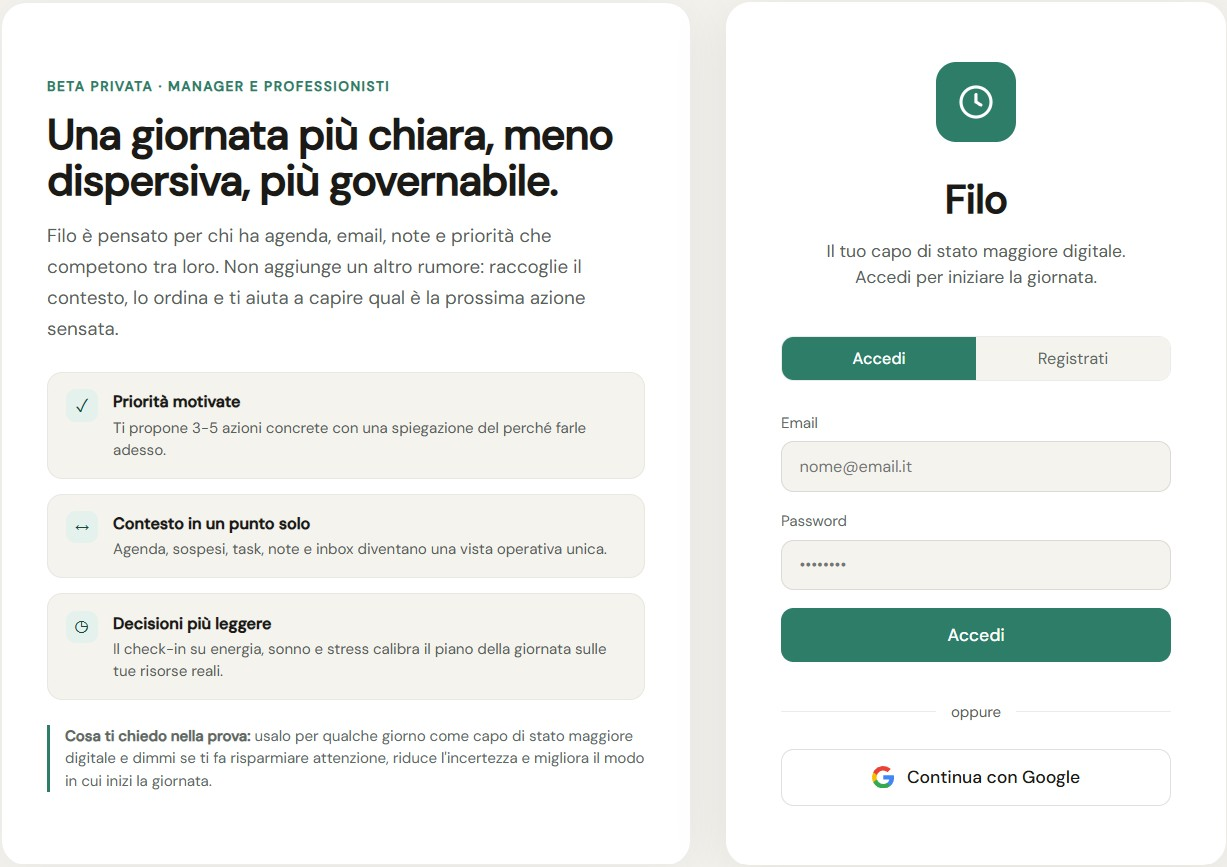
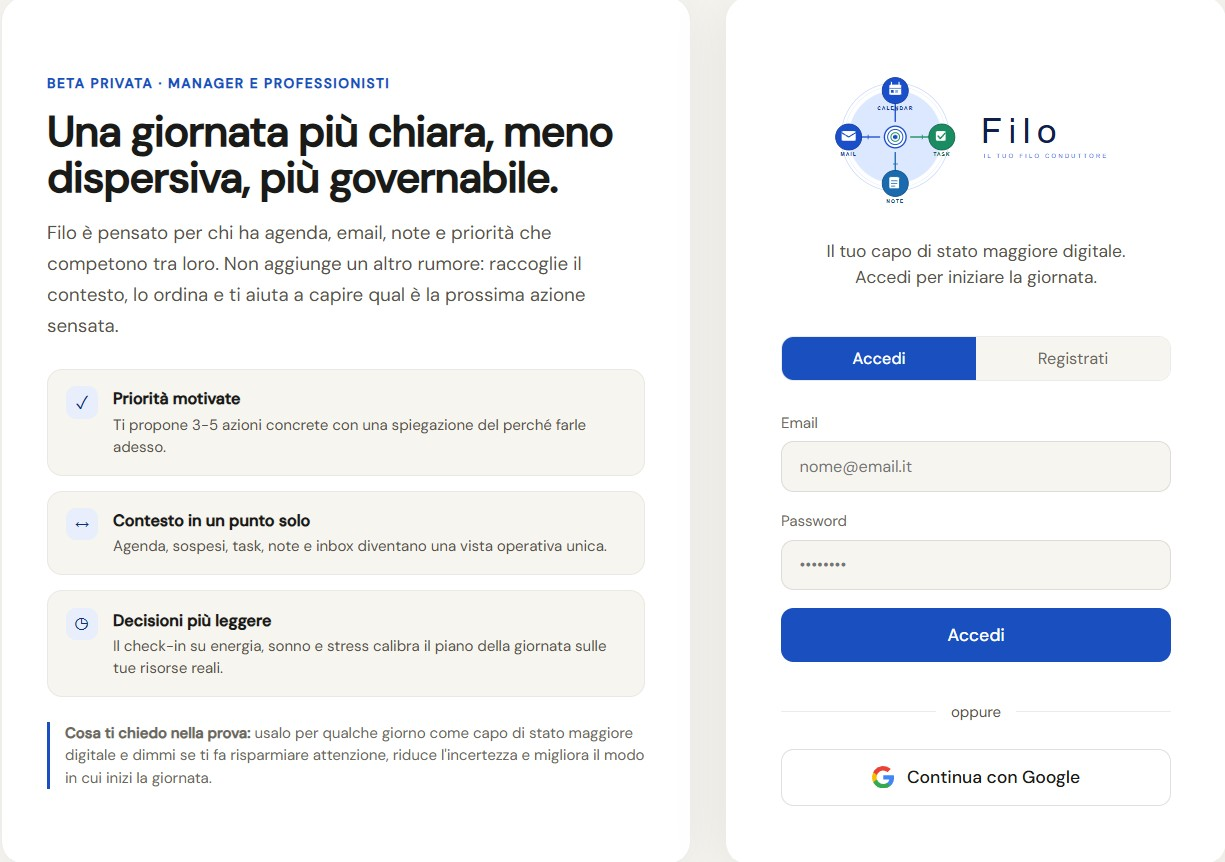
Update landing brand assets

diff --git a/index.html b/index.html
@@ -17,6 +17,7 @@
   <meta name="twitter:title" content="Filo - Contesto, priorita' e prossime azioni per professionisti">
   <meta name="twitter:description" content="Filo non e' un CRM: usa l'AI per leggere il contesto operativo e suggerire prossime azioni piu' chiare.">
   <meta name="twitter:image" content="https://filo-landing-gules.vercel.app/filo-linkedin-preview.png">
+  <link rel="icon" type="image/svg+xml" href="filo_favicon.svg">
   <script>
     window.va = window.va || function () { (window.vaq = window.vaq || []).push(arguments); };
   </script>
@@ -24,17 +25,20 @@
 
   <style>
     :root {
-      --ink: #14213d;
-      --muted: #5c667a;
-      --line: #dfe4ea;
+      --ink: #151512;
+      --brand-ink: #0f1e4a;
+      --muted: #5f5a52;
+      --line: #e5e0d8;
       --surface: #ffffff;
-      --soft: #f6f8fb;
-      --mint: #dff7ef;
-      --mint-strong: #2b9f78;
+      --paper: #f7f5f0;
+      --soft: #f4f2ec;
+      --blue-soft: #e8eefb;
+      --mint: #e4f1ec;
+      --mint-strong: #1a8c62;
       --coral: #f07167;
       --gold: #f6bd60;
-      --blue: #4f7cac;
-      --shadow: 0 22px 60px rgba(20, 33, 61, 0.14);
+      --blue: #2459c7;
+      --shadow: 0 22px 60px rgba(26, 26, 24, 0.12);
     }
 
     * {
@@ -48,7 +52,7 @@
     body {
       margin: 0;
       font-family: Inter, ui-sans-serif, system-ui, -apple-system, BlinkMacSystemFont, "Segoe UI", sans-serif;
-      background: var(--surface);
+      background: var(--paper);
       color: var(--ink);
       line-height: 1.5;
     }
@@ -74,25 +78,33 @@
       width: min(1120px, calc(100% - 40px));
       margin: 0 auto;
       padding: 18px 0;
-      background: rgba(255, 255, 255, 0.9);
+      background: rgba(247, 245, 240, 0.9);
       backdrop-filter: blur(18px);
     }
 
     .brand {
       display: inline-flex;
       align-items: center;
-      gap: 10px;
+      gap: 12px;
       font-weight: 800;
       font-size: 1.15rem;
+      color: var(--brand-ink);
     }
 
     .brand-mark {
       display: grid;
       place-items: center;
-      width: 34px;
-      height: 34px;
-      border-radius: 8px;
-      background: #2d7d68;
+      width: 38px;
+      height: 38px;
+      border-radius: 50%;
+      overflow: hidden;
+    }
+
+    .brand-mark img {
+      width: 100%;
+      height: 100%;
+      object-fit: contain;
+      display: block;
     }
 
     .nav-links {
@@ -116,9 +128,9 @@
     }
 
     .button.primary {
-      background: var(--ink);
+      background: var(--blue);
       color: #fff;
-      box-shadow: 0 12px 24px rgba(20, 33, 61, 0.18);
+      box-shadow: 0 12px 24px rgba(36, 89, 199, 0.20);
     }
 
     .button.secondary {
@@ -129,14 +141,14 @@
 
     .hero {
       padding: 62px 0 88px;
-      background: linear-gradient(180deg, #ffffff 0%, #f6fbf9 70%, #ffffff 100%);
+      background: var(--paper);
     }
 
     .hero-inner {
       display: grid;
-      grid-template-columns: 1fr;
-      align-items: start;
-      gap: 34px;
+      grid-template-columns: minmax(0, .94fr) minmax(420px, 1.06fr);
+      align-items: center;
+      gap: 36px;
       width: min(1120px, calc(100% - 40px));
       margin: 0 auto;
     }
@@ -146,7 +158,7 @@
       align-items: center;
       gap: 8px;
       margin: 0 0 18px;
-      color: var(--mint-strong);
+      color: var(--blue);
       font-size: 0.92rem;
       font-weight: 800;
     }
@@ -156,19 +168,19 @@
       width: 26px;
       height: 2px;
       border-radius: 999px;
-      background: var(--mint-strong);
+      background: var(--blue);
     }
 
     h1 {
       margin: 0;
       max-width: 720px;
-      font-size: clamp(2.55rem, 6vw, 5rem);
-      line-height: 0.98;
+      font-size: clamp(2.55rem, 5vw, 4.55rem);
+      line-height: 1.02;
       letter-spacing: 0;
     }
 
     .hero-copy {
-      max-width: 640px;
+      max-width: 660px;
       margin: 24px 0 0;
       color: var(--muted);
       font-size: clamp(1.05rem, 2vw, 1.25rem);
@@ -194,10 +206,10 @@
       max-width: 620px;
       margin-top: 18px;
       padding: 11px 13px;
-      border: 1px solid #b9eadb;
+      border: 1px solid rgba(36, 89, 199, .18);
       border-radius: 8px;
-      background: rgba(223, 247, 239, 0.72);
-      color: #214a40;
+      background: rgba(232, 238, 251, 0.82);
+      color: #1a3775;
       font-size: 0.94rem;
       font-weight: 650;
     }
@@ -208,7 +220,7 @@
       width: 10px;
       height: 10px;
       border-radius: 50%;
-      background: var(--mint-strong);
+      background: var(--blue);
     }
 
     .mobile-desktop-card {
@@ -216,8 +228,8 @@
     }
 
     .product-shot {
-      border: 1px solid var(--line);
-      border-radius: 8px;
+      border: 1px solid rgba(0,0,0,.08);
+      border-radius: 22px;
       background: #fff;
       box-shadow: var(--shadow);
       overflow: hidden;
@@ -232,16 +244,16 @@
     .visual-stack {
       display: grid;
       width: 100%;
-      gap: 16px;
+      gap: 18px;
     }
 
     .ai-example {
       width: min(760px, 100%);
       justify-self: center;
       padding: 20px;
-      border: 1px solid #bfe8dc;
+      border: 1px solid rgba(36, 89, 199, .16);
       border-radius: 8px;
-      background: #f4fbf8;
+      background: #fff;
       box-shadow: 0 16px 34px rgba(20, 33, 61, 0.08);
     }
 
@@ -264,7 +276,7 @@
       display: flex;
       gap: 10px;
       align-items: flex-start;
-      color: #214a40;
+      color: #34322d;
       font-size: 0.98rem;
       line-height: 1.35;
       font-weight: 650;
@@ -273,7 +285,7 @@
     .ai-example li::before {
       content: "\2713";
       flex: 0 0 auto;
-      color: var(--mint-strong);
+      color: var(--blue);
       font-weight: 900;
     }
 
@@ -717,10 +729,7 @@
     <nav class="nav" aria-label="Navigazione principale">
       <a class="brand" href="#">
         <span class="brand-mark" aria-hidden="true">
-          <svg width="18" height="18" viewBox="0 0 14 14" fill="none">
-            <circle cx="7" cy="7" r="5.5" stroke="white" stroke-width="1.3"/>
-            <path d="M7 4.5V7l2 1.2" stroke="white" stroke-width="1.3" stroke-linecap="round"/>
-          </svg>
+          <img src="filo_icon.svg" alt="">
         </span>
         <span>Filo</span>
       </a>
@@ -735,12 +744,12 @@
     <section class="hero">
       <div class="hero-inner">
         <div>
-          <p class="eyebrow">Versione gratuita disponibile</p>
-          <h1>Contesto, priorita' e prossime azioni piu' chiare per manager e professionisti.</h1>
+          <p class="eyebrow">Beta privata · manager e professionisti</p>
+          <h1>Una giornata piu' chiara, meno dispersiva, piu' governabile.</h1>
           <p class="hero-copy">
-            Filo non e' un CRM: e' un supporto operativo che legge agenda, note, contatti e sospesi.
-            Con il supporto dell'intelligenza artificiale, ti aiuta a capire cosa merita attenzione
-            adesso e quale prossima azione muovere.
+            Filo raccoglie agenda, email, note e priorita' in una vista operativa unica.
+            Ti aiuta a trasformare contesto e sospesi in prossime azioni motivate,
+            senza aggiungere un altro rumore alla giornata.
           </p>
           <div class="hero-actions">
             <a class="button primary" href="https://filo-new.vercel.app/" target="_blank" rel="noopener noreferrer">Prova Filo gratis</a>
@@ -762,7 +771,7 @@
 
         <div class="visual-stack">
           <div class="product-shot" aria-label="Schermata reale della pagina di accesso di Filo">
-            <img class="product-preview-image" src="filo-app-preview.jpg" alt="Schermata desktop reale della pagina di accesso e registrazione di Filo">
+            <img class="product-preview-image" src="filo-app-preview.jpg" alt="Schermata desktop reale della pagina di accesso di Filo con il nuovo logo">
           </div>
           <div class="ai-example" aria-label="Esempio di suggerimenti generati da Filo">
             <h2>Oggi Filo potrebbe suggerirti:</h2>